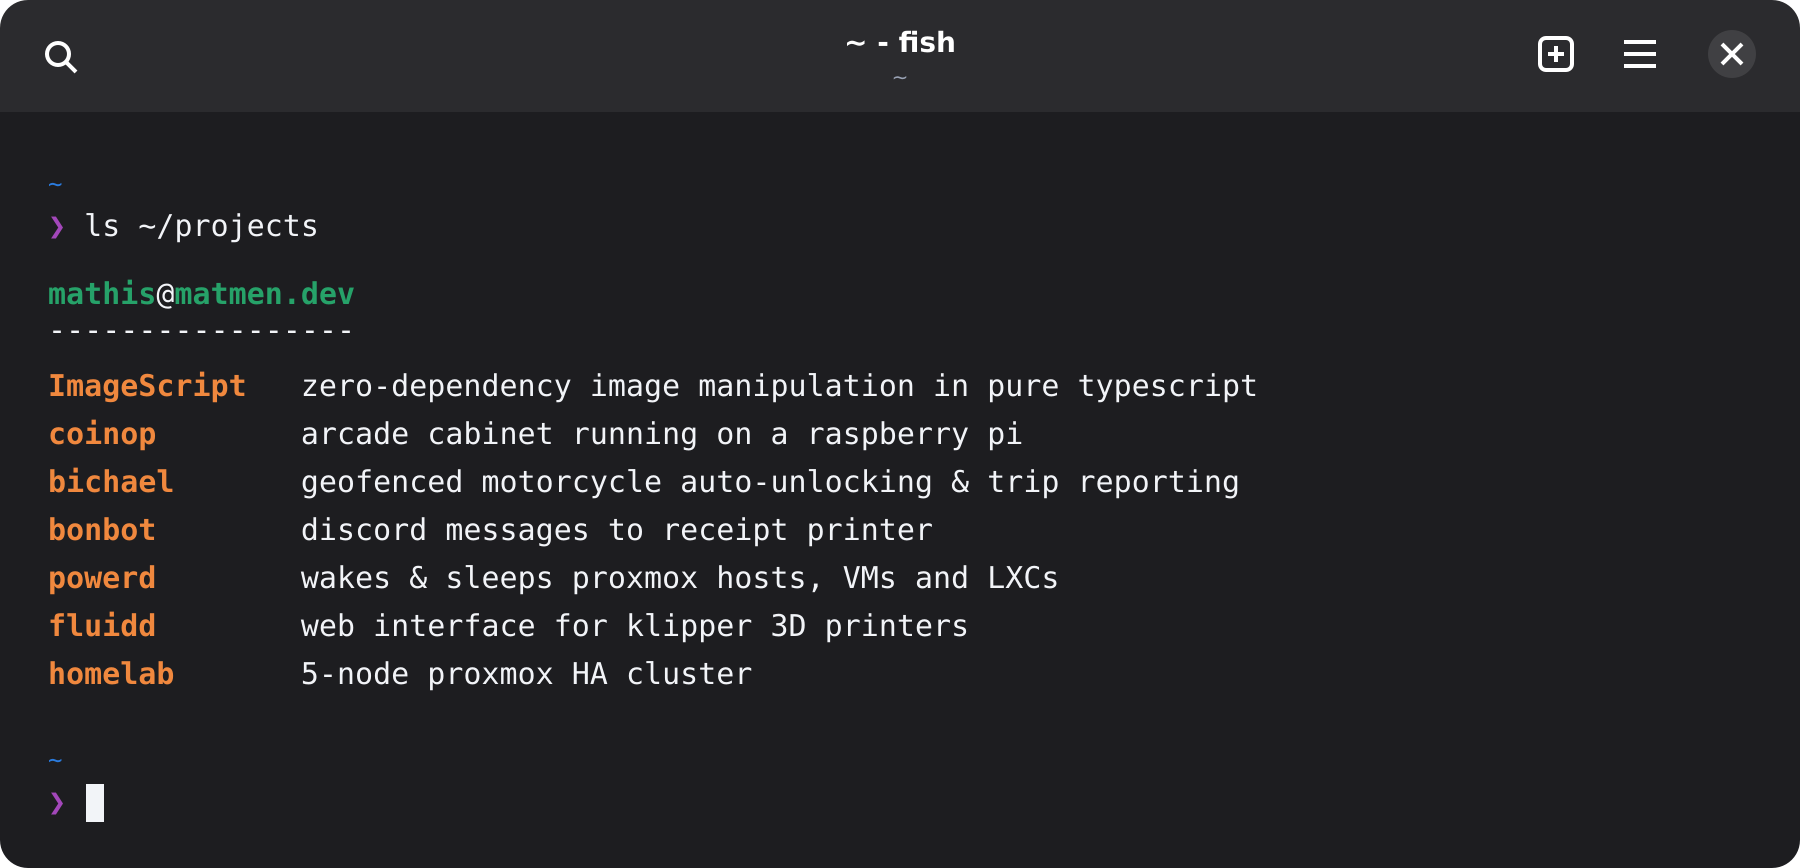
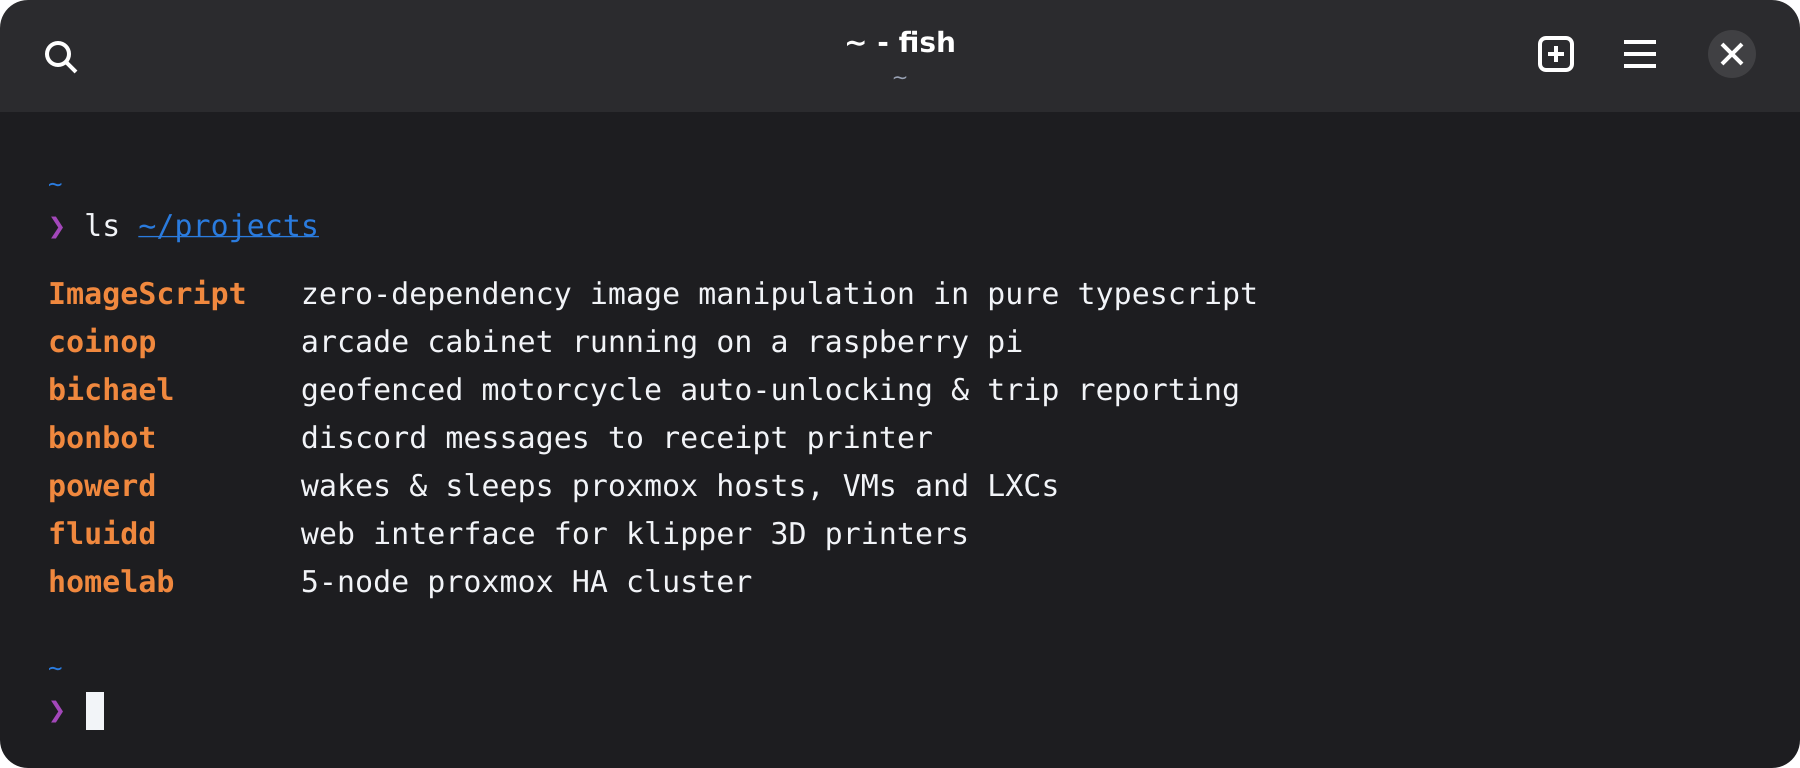
Separate contact chips from projects card

diff --git a/README.md b/README.md
@@ -1,11 +1,9 @@
 <div align="center">
   <img src="assets/banner.png" width="900" alt="ImageScript: pure TypeScript image processing that runs everywhere.">
   <br><br>
-  <img src="assets/projects.png" width="900" alt="mathis@matmen.dev. ImageScript: zero-dependency image manipulation in pure typescript. coinop: arcade cabinet running on a raspberry pi. bichael: geofenced motorcycle auto-unlocking and trip reporting. bonbot: discord messages to receipt printer. powerd: wakes and sleeps proxmox hosts, VMs and LXCs. fluidd: web interface for klipper 3D printers. homelab: 5-node proxmox HA cluster.">
+  <img src="assets/projects.png" width="900" alt="ImageScript: zero-dependency image manipulation in pure typescript. coinop: arcade cabinet running on a raspberry pi. bichael: geofenced motorcycle auto-unlocking and trip reporting. bonbot: discord messages to receipt printer. powerd: wakes and sleeps proxmox hosts, VMs and LXCs. fluidd: web interface for klipper 3D printers. homelab: 5-node proxmox HA cluster.">
   <br><br>
-  <a href="https://github.com/matmen/ImageScript">ImageScript</a> ·
-  <a href="https://imagescript.dev">docs</a> ·
-  <a href="https://try.imagescript.dev">playground</a> ·
-  <a href="https://github.com/fluidd-core/fluidd">fluidd</a> ·
-  <a href="mailto:mathis@matmen.dev">mail</a>
+  <a href="mailto:mathis@matmen.dev"><img src="assets/contact-mail.png" height="44" alt="mail: mathis@matmen.dev"></a>
+  <a href="https://discord.com/users/814218541091520562"><img src="assets/contact-discord.png" height="44" alt="discord: @matmen"></a>
+  <a href="https://discord.gg/8hPrwAH"><img src="assets/contact-server.png" height="44" alt="discord server: discord.gg/8hPrwAH"></a>
 </div>
